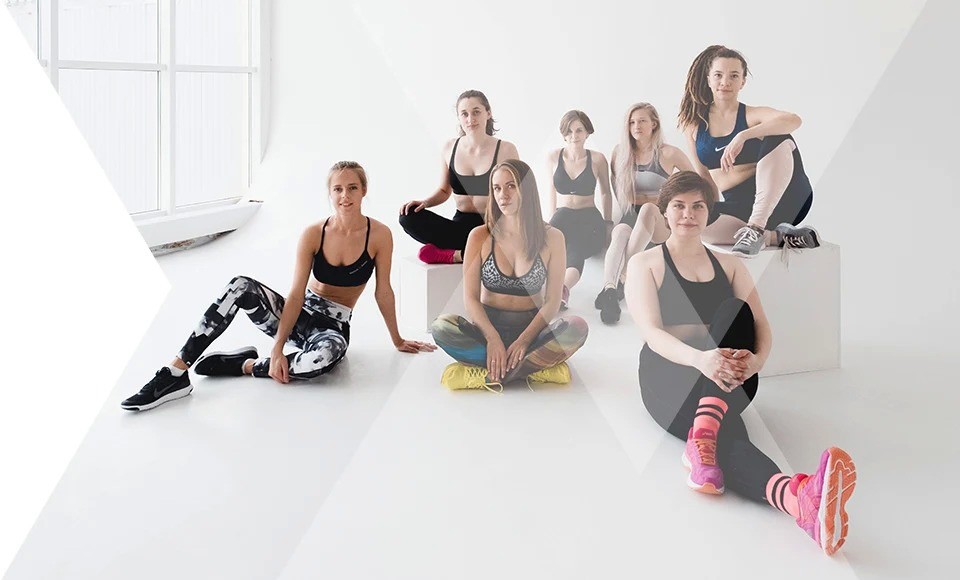
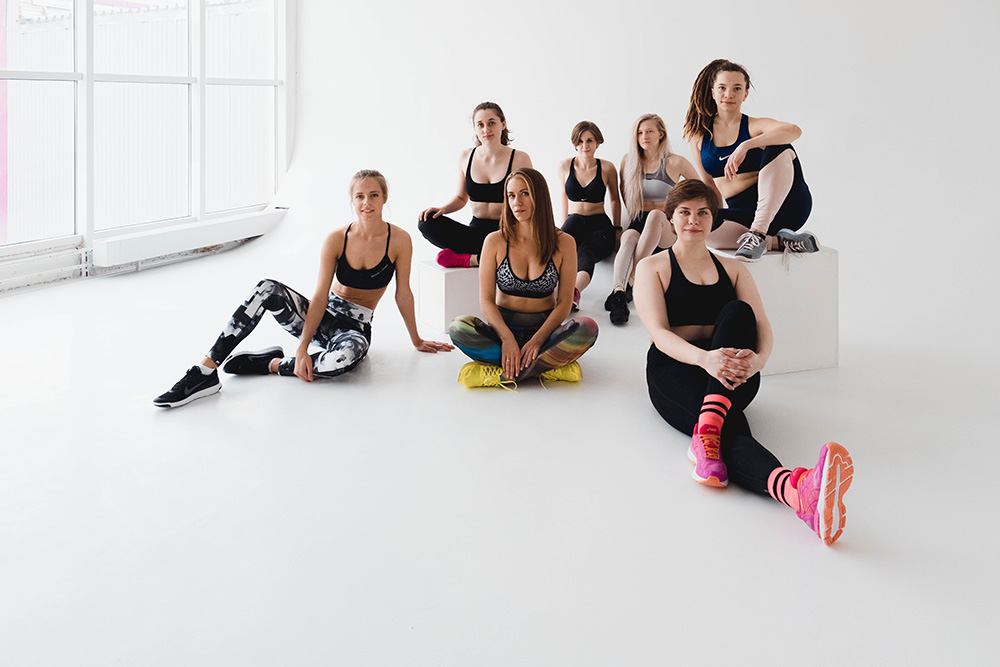
Improve aside hero

Changed region(s): [[0.0, 0.0, 0.9062, 0.9931], [0.2812, 0.0, 0.3125, 0.0931], [0.1562, 0.1241, 0.1875, 0.1552]]

diff --git a/src/components/heroes/aside-hero.vue b/src/components/heroes/aside-hero.vue
@@ -1,7 +1,11 @@
 <template lang="pug">
 section.aside-hero
 	.main
-		.background(:style="{ backgroundImage: `url(' ${backgroundImage} ')`}")
+		.background
+			.triangle
+				svg(height='500' viewBox='0 0 150 500')
+					polygon.triangle(fill='white' points='0,0 150,250 0,500')
+			.img(:style="{ backgroundImage: `url(' ${backgroundImage} ')`}")
 		.content
 			.limit
 				h1.title {{title}}
@@ -44,7 +48,9 @@ section.aside-hero
 			min-height: 500px;
 			position: relative;
 			@media (max-width: 1024px) {
-				height: 400px;
+				height: 100vw;
+				min-height: 410px;
+				max-height: 500px;
 			}
 		}
 		.background {
@@ -56,15 +62,35 @@ section.aside-hero
 			position: absolute;
 			top: 0;
 			right: 0;
-			@media (min-width: 1024px) {
+			@media (min-width: 1025px) {
 				width: 50%;
 				background-position: center left;
+			}
+			.img {
+				height: 100%;
+				width: 100%;
+				background-position: center 30%;
+				@media (max-width: 1024px) {
+					/* background-position: center; */
+					background-size: cover;
+				}
+			}
+			.triangle {
+				width: 50%;
+				height: 100%;
+				position: absolute;
+				top: 0;
+				left: 0;
+				@media (max-width: 1024px) {
+					display: none;
+				}
 			}
 		}
 		.content {
 			padding: 30px *;
 			@media (max-width: 1024px) {
 				height: 100%;
+				padding: 10px *;
 				.limit {
 					height: 100%;
 					display: flex;
